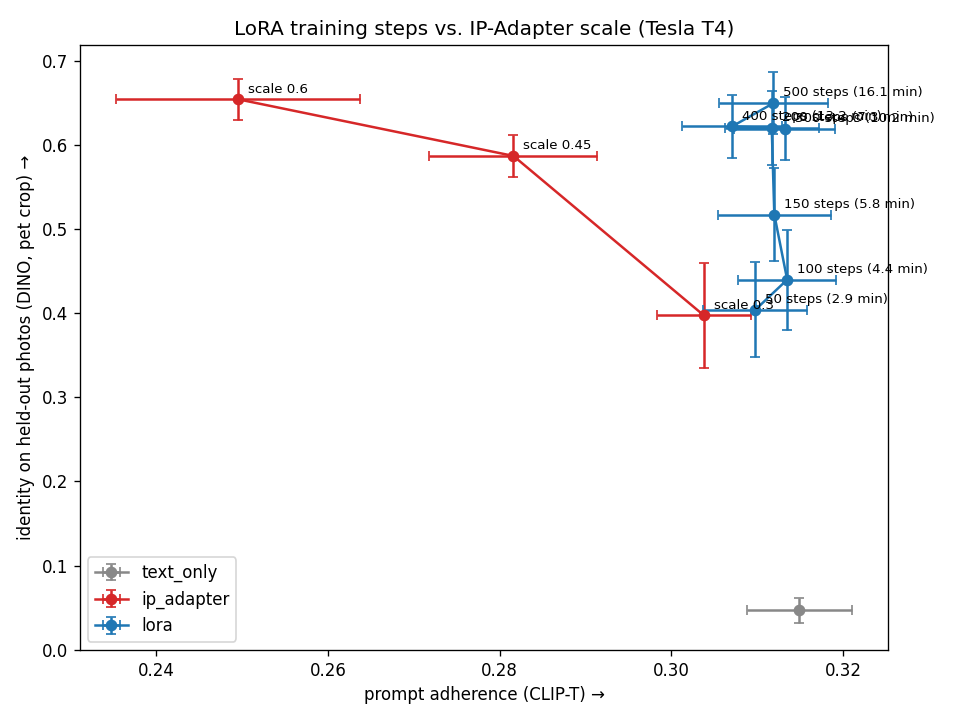
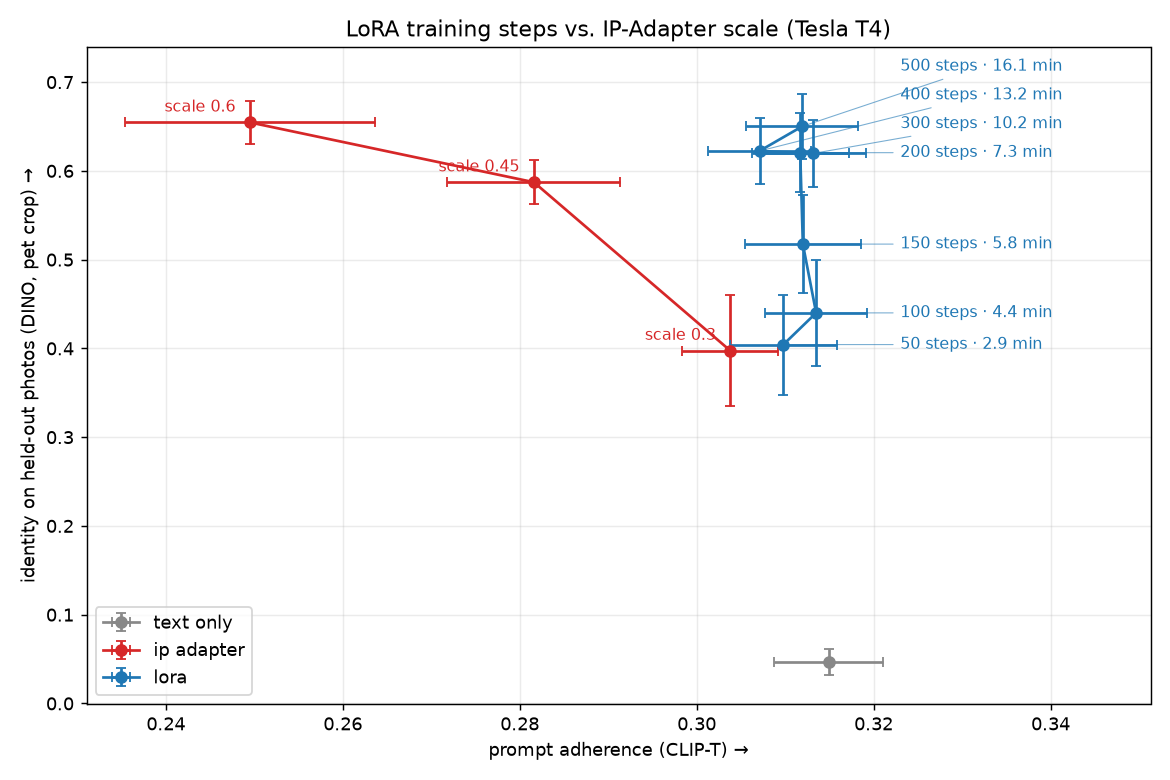
Tradeoff plot: non-overlapping step labels, reusable from summary.csv

diff --git a/worker/eval/tradeoff_plot.py b/worker/eval/tradeoff_plot.py
@@ -1,0 +1,73 @@
+"""Identity vs. prompt-adherence plot from a run's summary.csv.
+
+    python eval/tradeoff_plot.py experiments/<run>/summary.csv [out.png] [--title "..."]
+"""
+import argparse
+
+import matplotlib
+
+matplotlib.use("Agg")
+import matplotlib.pyplot as plt  # noqa: E402
+import pandas as pd  # noqa: E402
+
+STYLE = {"text_only": "#888888", "ip_adapter": "#d62728", "lora": "#1f77b4"}
+
+
+def spread(ys, min_gap):
+    """Nudge sorted label positions apart so neighbors are at least min_gap apart."""
+    out = []
+    for y in ys:
+        out.append(max(y, out[-1] + min_gap) if out else y)
+    return out
+
+
+def plot_tradeoff(summary: pd.DataFrame, path: str, title: str):
+    s = summary.reset_index() if "method" not in summary.columns else summary
+    fig, ax = plt.subplots(figsize=(9, 6))
+
+    for method, color in STYLE.items():
+        g = s[s.method == method].sort_values("param")
+        if g.empty:
+            continue
+        sem = lambda c: g[f"{c}_std"] / g["n"] ** 0.5  # noqa: E731
+        ax.errorbar(g.clip_t_mean, g.dino_crop_mean, xerr=sem("clip_t"), yerr=sem("dino_crop"),
+                    fmt="-o", color=color, label=method.replace("_", " "), capsize=3, zorder=3)
+
+    # IP-Adapter points are far apart: label them in place, on the left (the LoRA cluster is to the right)
+    for _, r in s[s.method == "ip_adapter"].iterrows():
+        ax.annotate(f"scale {r.param:g}", (r.clip_t_mean, r.dino_crop_mean), textcoords="offset points",
+                    xytext=(-8, 6), ha="right", fontsize=9, color=STYLE["ip_adapter"])
+
+    # LoRA points cluster tightly: put labels in a column to the right, spread vertically, with leader lines
+    # Labels are ordered by step count so they read top-down like the curve
+    lora = s[s.method == "lora"].sort_values("param")
+    if not lora.empty:
+        x0, x1 = ax.get_xlim()
+        y0, y1 = ax.get_ylim()
+        right_edge = (lora.clip_t_mean + lora.clip_t_std / lora.n ** 0.5).max()  # clear the error bars
+        label_x = right_edge + 0.04 * (x1 - x0)
+        ys = spread(lora.dino_crop_mean.tolist(), min_gap=0.045 * (y1 - y0))
+        for (_, r), ly in zip(lora.iterrows(), ys):
+            ax.annotate(f"{int(r.param)} steps · {r.train_min:.1f} min", xy=(r.clip_t_mean, r.dino_crop_mean),
+                        xytext=(label_x, ly), textcoords="data", fontsize=9, va="center", color=STYLE["lora"],
+                        arrowprops=dict(arrowstyle="-", color=STYLE["lora"], lw=0.6, alpha=0.6))
+        ax.set_xlim(x0, label_x + 0.30 * (x1 - x0))
+        ax.set_ylim(y0, max(y1, ys[-1] + 0.03 * (y1 - y0)))
+
+    ax.set_xlabel("prompt adherence (CLIP-T) →")
+    ax.set_ylabel("identity on held-out photos (DINO, pet crop) →")
+    ax.set_title(title)
+    ax.grid(alpha=0.25)
+    ax.legend(loc="lower left")
+    plt.tight_layout()
+    plt.savefig(path, dpi=130)
+    plt.close(fig)
+
+
+if __name__ == "__main__":
+    p = argparse.ArgumentParser()
+    p.add_argument("summary_csv")
+    p.add_argument("out", nargs="?")
+    p.add_argument("--title", default="LoRA training steps vs. IP-Adapter scale")
+    a = p.parse_args()
+    plot_tradeoff(pd.read_csv(a.summary_csv), a.out or a.summary_csv.replace("summary.csv", "tradeoff.png"), a.title)

diff --git a/worker/run2.py b/worker/run2.py
@@ -163,23 +163,9 @@ import matplotlib  # noqa: E402
 matplotlib.use("Agg")
 import matplotlib.pyplot as plt  # noqa: E402
 
-s = summary.reset_index()
-fig, ax = plt.subplots(figsize=(8, 6))
-for method, color in [("text_only", "#888888"), ("ip_adapter", "#d62728"), ("lora", "#1f77b4")]:
-    g = s[s.method == method].sort_values("param")
-    sem = lambda c: g[f"{c}_std"] / g["n"] ** 0.5  # noqa: E731
-    ax.errorbar(g.clip_t_mean, g.dino_crop_mean, xerr=sem("clip_t"), yerr=sem("dino_crop"),
-                fmt="-o", color=color, label=method, capsize=3)
-    for _, r in g.iterrows():
-        label = {"ip_adapter": f"scale {r.param}", "lora": f"{int(r.param)} steps ({r.train_min:.1f} min)"}.get(method)
-        if label:
-            ax.annotate(label, (r.clip_t_mean, r.dino_crop_mean), textcoords="offset points", xytext=(6, 4), fontsize=8)
-ax.set_xlabel("prompt adherence (CLIP-T) →")
-ax.set_ylabel("identity on held-out photos (DINO, pet crop) →")
-ax.set_title(f"LoRA training steps vs. IP-Adapter scale ({gpu})")
-ax.legend()
-plt.tight_layout()
-plt.savefig(f"{OUT}/tradeoff.png", dpi=120)
+from eval.tradeoff_plot import plot_tradeoff  # noqa: E402
+
+plot_tradeoff(summary, f"{OUT}/tradeoff.png", f"LoRA training steps vs. IP-Adapter scale ({gpu})")
 
 # Grid: one row per config, one column per scene (seed 1)
 cfgs = [(m, p) for m, p, _ in configs]
